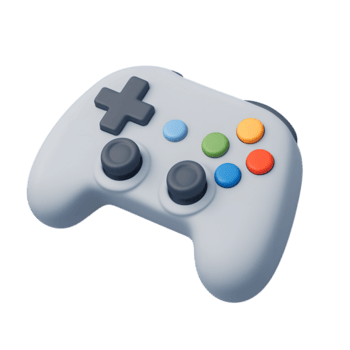
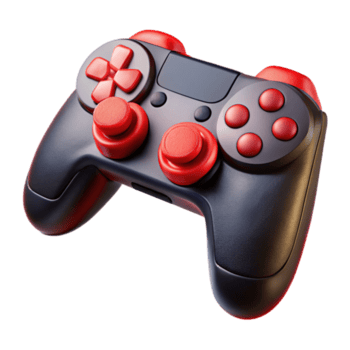
finalized style

diff --git a/css/style.css b/css/style.css
@@ -2,80 +2,80 @@
 
 :root {
   --bg-color: #0a0a0a;
-   --accent-primary: #e62b2b;
- --accent-dark: #1f1f1f;
-   --text-main: #e0e0e0;
+  --accent-primary: #e62b2b;
+  --accent-dark: #1f1f1f;
+  --text-main: #e0e0e0;
 }
 
 * {
-   box-sizing: border-box;
- margin: 0;
-   padding: 0;
+  box-sizing: border-box;
+  margin: 0;
+  padding: 0;
 }
 
 body {
-   background-color: var(--bg-color);
-   background-image: radial-gradient(circle at 70% 30%, #1e1e1e 0%, #0a0a0a 70%);
- color: var(--text-main);
-   font-family: 'Outfit', sans-serif;
- line-height: 1.6;
+  background-color: var(--bg-color);
+  background-image: radial-gradient(circle at 70% 30%, #1e1e1e 0%, #0a0a0a 70%);
+  color: var(--text-main);
+  font-family: 'Outfit', sans-serif;
+  line-height: 1.6;
   min-height: 100vh;
 }
 
 h1, h2, h3 {
- font-family: 'VT323', monospace;
-   font-weight: normal;
+  font-family: 'VT323', monospace;
+  font-weight: normal;
 }
 
 .top-nav {
-   display: flex;
- justify-content: center;
-   gap: 4rem;
- padding: 1.5rem 2rem;
-   border-bottom: 2px solid #222;
+  display: flex;
+  justify-content: center;
+  gap: 4rem;
+  padding: 1.5rem 2rem;
+  border-bottom: 2px solid #222;
 }
 
 .top-nav a {
- color: #777;
-   text-decoration: none;
- font-family: 'VT323', monospace;
-   font-size: 1.5rem;
- text-transform: uppercase;
+  color: #777;
+  text-decoration: none;
+  font-family: 'VT323', monospace;
+  font-size: 1.5rem;
+  text-transform: uppercase;
   transition: color 0.2s;
 }
 
 .top-nav a:hover, .top-nav a.active {
-   color: var(--accent-primary);
+  color: var(--accent-primary);
 }
 
 .welcome-container {
- max-width: 1000px;
-   margin: 0 auto;
- padding: 4rem 2rem;
+  max-width: 1000px;
+  margin: 0 auto;
+  padding: 4rem 2rem;
 }
 
 .hero {
-   display: flex;
- align-items: center;
-   justify-content: space-between;
- margin-bottom: 6rem;
-   gap: 2rem;
+  display: flex;
+  align-items: center;
+  justify-content: space-between;
+  margin-bottom: 6rem;
+  gap: 2rem;
 }
 
 .hero-content {
- flex: 1;
-   text-align: left;
+  flex: 1;
+  text-align: left;
 }
 
 .hero-visual {
-   flex: 1;
- display: flex;
-   justify-content: center;
+  flex: 1;
+  display: flex;
+  justify-content: center;
 }
 
 .hero-visual img {
- width: 280px;
-   height: auto;
+  width: 280px;
+  height: auto;
   filter: drop-shadow(0px 10px 15px rgba(230, 43, 43, 0.15));
 }
 
@@ -90,76 +90,80 @@ h1, h2, h3 {
 }
 
 .hero p {
- font-size: 1.2rem;
-   max-width: 450px;
- margin-bottom: 3rem;
-   color: #999;
+  font-size: 1.2rem;
+  max-width: 450px;
+  margin-bottom: 3rem;
+  color: #999;
 }
 
 .enter-btn {
-   display: inline-block;
- background-color: var(--accent-dark);
-   color: var(--text-main);
- padding: 1rem 2.5rem;
-   font-family: 'VT323', monospace;
- font-size: 2rem;
-   text-decoration: none;
- transition: all 0.2s ease;
-   border: 2px solid var(--accent-primary);
+  display: inline-block;
+  background-color: var(--accent-dark);
+  color: var(--text-main);
+  padding: 1rem 2.5rem;
+  font-family: 'VT323', monospace;
+  font-size: 2rem;
+  text-decoration: none;
+  transition: all 0.2s ease;
+  border: 2px solid var(--accent-primary);
   box-shadow: 4px 4px 0px var(--accent-primary);
 }
 
 .enter-btn:hover {
- background-color: var(--accent-primary);
-   color: #fff;
- transform: translate(2px, 2px);
+  background-color: var(--accent-primary);
+  color: #fff;
+  transform: translate(2px, 2px);
   box-shadow: 2px 2px 0px var(--accent-primary);
 }
 
 .highlight-box {
-   text-align: left;
+  text-align: left;
 }
 
 .highlight-box h2 {
- font-size: 2.5rem;
-   margin-bottom: 1.5rem;
- color: #fff;
+  font-size: 2.5rem;
+  margin-bottom: 1.5rem;
+  color: #fff;
+}
+
+.games-list {
+  display: flex;
+  flex-direction: column;
+  gap: 2.5rem;
 }
 
 .game-wrapper {
-   background-color: #0f0f0f;
- padding: 2.5rem;
-   border: 2px solid var(--accent-primary);
- box-shadow: 8px 8px 0px var(--accent-dark);
+  background-color: #0f0f0f;
+  padding: 2.5rem;
+  box-shadow: 8px 8px 0px var(--accent-primary);
 }
 
 .game-wrapper h3 {
- font-size: 2.5rem;
-   margin-bottom: 0.5rem;
- text-transform: uppercase;
-   color: var(--accent-primary);
+  font-size: 2.5rem;
+  margin-bottom: 0.5rem;
+  text-transform: uppercase;
+  color: var(--accent-primary);
 }
 
 .game-wrapper p {
-   margin-bottom: 2rem;
- font-size: 1.2rem;
-   color: #aaa;
+  margin-bottom: 2rem;
+  font-size: 1.2rem;
+  color: #aaa;
 }
 
 .play-link {
- background-color: transparent;
-   color: var(--text-main);
- text-decoration: none;
-   padding: 10px 20px;
- font-family: 'VT323', monospace;
-   font-size: 1.5rem;
- text-transform: uppercase;
-   border: 2px solid var(--accent-primary);
- display: inline-block;
+  background-color: var(--accent-primary);
+  color: var(--text-main);
+  text-decoration: none;
+  padding: 10px 20px;
+  font-family: 'VT323', monospace;
+  font-size: 1.5rem;
+  text-transform: uppercase;
+  display: inline-block;
   transition: all 0.2s;
 }
 
 .play-link:hover {
-   background-color: var(--accent-primary);
- color: #fff;
+  background-color: transparent;
+  color: #fff;
 }

diff --git a/index.html b/index.html
@@ -2,38 +2,52 @@
 <html lang="en">
 <head>
   <meta charset="UTF-8">
-   <meta name="viewport" content="width=device-width, initial-scale=1.0">
+  <meta name="viewport" content="width=device-width, initial-scale=1.0">
   <title>Bento Arcade</title>
-   <link href="https://fonts.googleapis.com/css2?family=Outfit:wght@400;600&family=VT323&display=swap" rel="stylesheet">
+  <link href="https://fonts.googleapis.com/css2?family=Outfit:wght@400;600&family=VT323&display=swap" rel="stylesheet">
   <link rel="stylesheet" href="css/style.css">
 </head>
 <body>
   <nav class="top-nav">
      <a href="index.html" class="active">Welcome</a>
-      <a href="games.html">Games</a>
-       <a href="about.html">About</a>
+     <a href="games.html">Games</a>
+     <a href="about.html">About</a>
   </nav>
 
    <main class="welcome-container">
        <header class="hero">
            <div class="hero-content">
                <h1>BENTO ARCADE</h1>
-              <p>A self-contained collection of mini-games. Free to play directly in your browser.</p>
+               <p>A self-contained collection of mini-games. Free to play directly in your browser.</p>
                <a href="games.html" class="enter-btn" id="enterBtn">ENTER ARCADE</a>
            </div>
            
            <div class="hero-visual">
-               <img src="assets/controller2.png" alt="Arcade Controller">
+               <img src="assets/controller.png" alt="Arcade Controller">
            </div>
        </header>
 
        <section class="highlight-box">
-           <h2>Featured Game</h2>
-          <div class="game-wrapper">
-               <h3>Snake</h3>
-               <p>Guide the snake, collect food, and avoid the walls.</p>
-              <a href="games.html#snake" class="play-link">Play Now</a>
-          </div>
+           <h2>Featured Games</h2>
+           <div class="games-list">
+               <div class="game-wrapper">
+                   <h3>Snake</h3>
+                   <p>Guide the snake, collect food, and avoid the walls.</p>
+                   <a href="games.html#snake" class="play-link">Play Now</a>
+               </div>
+               
+               <div class="game-wrapper">
+                   <h3>Brick Breaker</h3>
+                   <p>Bounce a ball with a paddle to clear a formation of blocks.</p>
+                   <a href="games.html#brick" class="play-link">Play Now</a>
+               </div>
+
+               <div class="game-wrapper">
+                   <h3>Reaction</h3>
+                   <p>Respond to targets appearing on screen before the timer ends.</p>
+                   <a href="games.html#reaction" class="play-link">Play Now</a>
+               </div>
+           </div>
        </section>
    </main>
 
